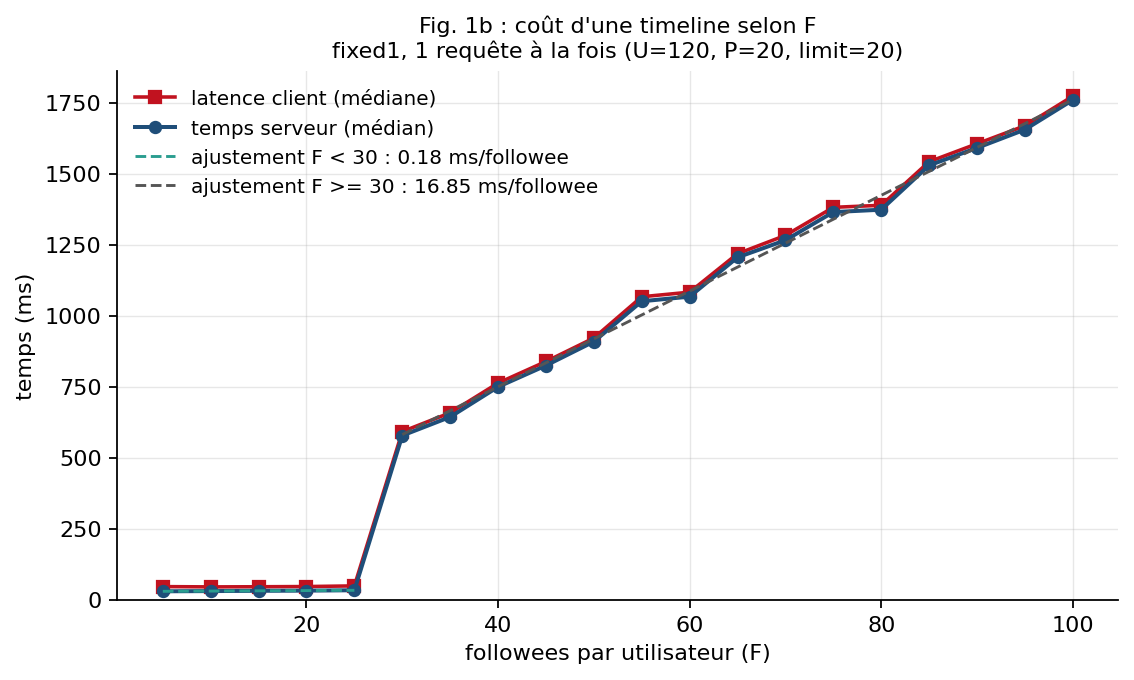
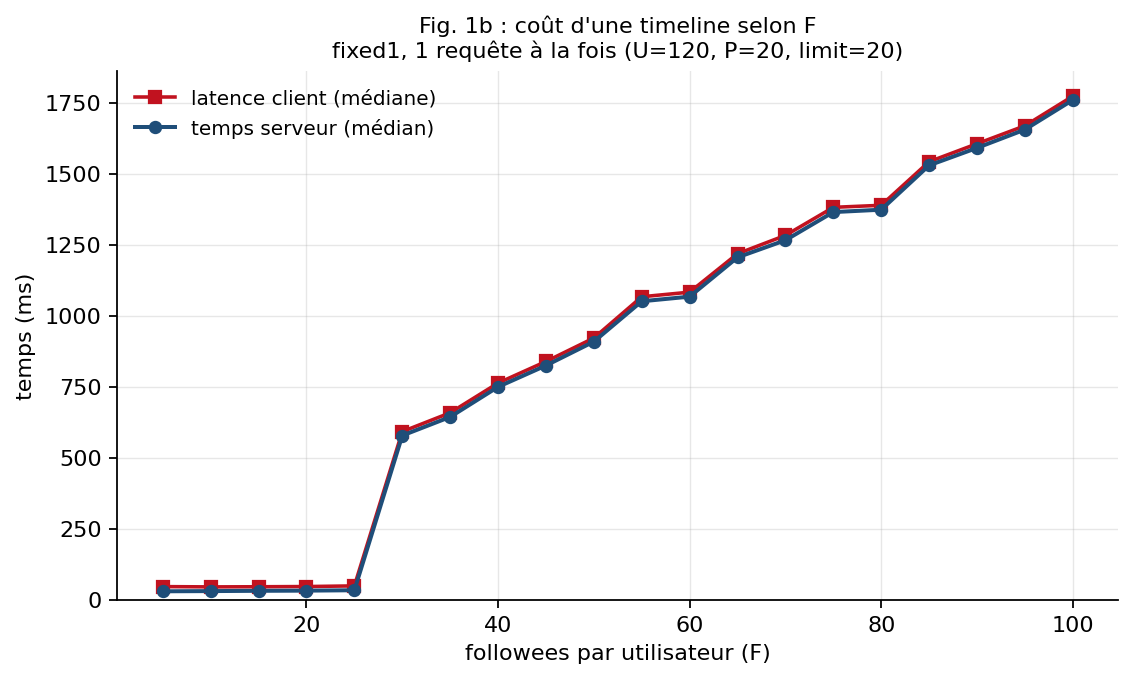
fig

diff --git a/scripts/analyze.py b/scripts/analyze.py
@@ -190,16 +190,12 @@ def fig1b(raw, out, warmup):
     ax.plot(f["F"], f["server_ms_median"], "o-", color=COL[1], lw=1.8, ms=5,
             label="temps serveur (médian)")
 
-    # une droite par regime, pas une seule a travers la marche
+    # pente du temps serveur, une par regime (citee dans le README)
     ok = f.dropna(subset=["server_ms_median"])
-    lo, hi = ok[ok["F"] < CLIFF_F], ok[ok["F"] >= CLIFF_F]
-    for seg, col, lab in ((lo, "#2a9d8f", f"ajustement F < {CLIFF_F}"),
-                          (hi, "#555555", f"ajustement F >= {CLIFF_F}")):
+    for lab, seg in ((f"F < {CLIFF_F}", ok[ok["F"] < CLIFF_F]), (f"F >= {CLIFF_F}", ok[ok["F"] >= CLIFF_F])):
         if len(seg) >= 3:
-            a, b = np.polyfit(seg["F"], seg["server_ms_median"], 1)
-            xs = np.linspace(seg["F"].min(), seg["F"].max(), 50)
-            ax.plot(xs, a * xs + b, "--", color=col, lw=1.3,
-                    label=f"{lab} : {a:.2f} ms/followee")
+            a, _ = np.polyfit(seg["F"], seg["server_ms_median"], 1)
+            print(f"  pente {lab} : {a:.2f} ms/followee")
     style(ax, "followees par utilisateur (F)", "temps (ms)",
           "Fig. 1b : coût d'une timeline selon F",
           "fixed1, 1 requête à la fois (U=120, P=20, limit=20)")

diff --git a/README.md b/README.md
@@ -77,7 +77,7 @@ Toutes les valeurs ci-dessous sont relevées sur le projet par [`bench/verify.py
 
 ![Fig. 1b](figures/fig1b.png)
 
-*Fig. 1b : temps serveur médian et latence client médiane en fonction de F (U = 120, P = 20, limit = 20). Version `fixed1`, 1 requête à la fois. Les droites sont ajustées séparément de part et d'autre de F = 30. Données : [`figures/fig1b.csv`](figures/fig1b.csv).*
+*Fig. 1b : temps serveur médian et latence client médiane en fonction de F (U = 120, P = 20, limit = 20). Version `fixed1`, 1 requête à la fois. Données : [`figures/fig1b.csv`](figures/fig1b.csv).*
 
 #### Interprétation
 
@@ -91,6 +91,8 @@ Toutes les valeurs ci-dessous sont relevées sur le projet par [`bench/verify.py
 |---|---|---|---|---|---|---|---|---|---|
 | temps serveur médian (ms) | 29,1 | 29,8 | 30,8 | 31,4 | 32,8 | **577,4** | 908,1 | 1 364,2 | 1 758,9 |
 | débit (timelines/s) | 20,8 | 20,8 | 20,7 | 20,5 | 19,9 | **1,6** | 1,0 | 0,7 | 0,6 |
+
+Pentes du temps serveur, par régression linéaire sur chaque régime (affichées par `make figures`) :
 
 - **F ≤ 25 :** la pente est de 0,18 ms par followee.
 - **De F = 25 à F = 30 :** le temps est multiplié par 17,6.
